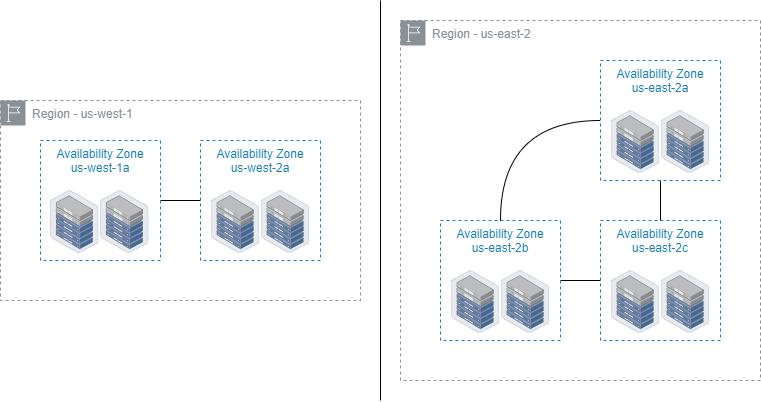
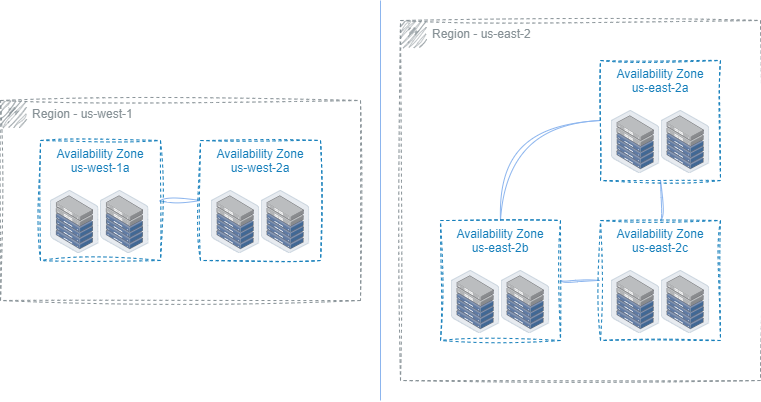
Overview updates (#46)
* Editing/formatting account page and adding initial diagram

* Saving work

* Adding custom themes

* Updating the overview section

* deleting temp diagrams

diff --git a/web/static/css/theme-dark.css b/web/static/css/theme-dark.css
@@ -1,0 +1,35 @@
+/* my-custom-variant */
+:root {
+  --PRIMARY-color: #0099ff; /* brand primary color */
+  --SECONDARY-color: #6c8ce3; /* brand secondary color */
+  --ACCENT-color: #ff44ff; /* brand accent color, used for search highlights */
+  --MAIN-LINK-HOVER-color: #93b0ff; /* hoverd link color of content */
+  --MAIN-BG-color: #202020; /* background color of content */
+  --MAIN-TEXT-color: #e0e0e0; /* text color of content and h1 titles */
+  --MAIN-TITLES-TEXT-color: #ffffff; /* text color of h2-h6 titles and transparent box titles */
+  --CODE-BLOCK-color: #f8f8f8; /* fallback text color of block code; should be adjusted to your selected chroma style */
+  --CODE-BLOCK-BG-color: #2b2b2b; /* fallback background color of block code; should be adjusted to your selected chroma style */
+  --CODE-INLINE-color: #0099ff; /* text color of inline code */
+  --CODE-INLINE-BG-color: #2d2d2d; /* background color of inline code */
+  --CODE-INLINE-BORDER-color: #464646; /* border color of inline code */
+  --BROWSER-theme: dark; /* name of the theme for browser scrollbars of the main section */
+  --MERMAID-theme: dark; /* name of the default Mermaid theme for this variant, can be overridden in config.toml */
+  --OPENAPI-theme: dark; /* name of the default OpenAPI theme for this variant, can be overridden in config.toml */
+  --OPENAPI-CODE-theme: obsidian; /* name of the default OpenAPI coee theme for this variant, can be overridden in config.toml */
+  --MENU-HEADER-BG-color: #0099ff; /* background color of menu header */
+  --MENU-HOME-LINK-color: #404040; /* home button color if configured */
+  --MENU-HOME-LINK-HOVER-color: #000000; /* hoverd home button color if configured */
+  --MENU-SEARCH-color: #e0e0e0; /* text and icon color of search box */
+  --MENU-SEARCH-BG-color: #323232; /* background color of search box */
+  --MENU-SEARCH-BORDER-color: #e0e0e0; /* border color of search box */
+  --MENU-SECTIONS-BG-color: #2b2b2b; /* background of the menu; this is NOT just a color value but can be a complete CSS background definition including gradients, etc. */
+  --MENU-SECTIONS-ACTIVE-BG-color: #323232; /* background color of the active menu section */
+  --MENU-SECTIONS-LINK-color: #bababa; /* link color of menu topics */
+  --MENU-SECTIONS-LINK-HOVER-color: #ffffff; /* hoverd link color of menu topics */
+  --MENU-SECTION-ACTIVE-CATEGORY-color: #0099ff; /* text color of the displayed menu topic */
+  --MENU-SECTION-HR-color: #606060; /* separator color of menu footer */
+  --MENU-VISITED-color: #486ac9; /* icon color of visited menu topics if configured */
+  --BOX-CAPTION-color: rgba( 240, 240, 240, 1 ); /* text color of colored box titles */
+  --BOX-BG-color: rgba( 20, 20, 20, 1 ); /* background color of colored boxes */
+  --BOX-TEXT-color: #e0e0e0; /* text color of colored box content */
+}

diff --git a/web/static/css/theme-light.css b/web/static/css/theme-light.css
@@ -1,0 +1,34 @@
+/* my-custom-variant */
+:root {
+  --PRIMARY-color: #0099ff; /* brand primary color */
+  --SECONDARY-color: #6380d0; /* brand secondary color */
+  --ACCENT-color: #ff88ff; /* brand accent color, used for search highlights */
+  --MAIN-LINK-HOVER-color: #202891; /* hoverd link color of content */
+  --MAIN-BG-color: #ffffff; /* background color of content */
+  --MAIN-TEXT-color: #101010; /* text color of content and h1 titles */
+  --MAIN-TITLES-TEXT-color: #4a4a4a; /* text color of h2-h6 titles and transparent box titles */
+  --CODE-BLOCK-color: #000000; /* fallback text color of block code; should be adjusted to your selected chroma style */
+  --CODE-BLOCK-BG-color: #f8f8f8; /* fallback background color of block code; should be adjusted to your selected chroma style */
+  --CODE-BLOCK-BORDER-color: #d8d8d8; /* border color of block code */
+  --CODE-INLINE-color: #5e5e5e; /* text color of inline code */
+  --CODE-INLINE-BG-color: #fffae9; /* background color of inline code */
+  --CODE-INLINE-BORDER-color: #f8e8c8; /* border color of inline code */
+  --BROWSER-theme: light; /* name of the theme for browser scrollbars of the main section */
+  --MERMAID-theme: default; /* name of the default Mermaid theme for this variant, can be overridden in config.toml */
+  --OPENAPI-theme: light; /* name of the default OpenAPI theme for this variant, can be overridden in config.toml */
+  --OPENAPI-CODE-theme: obsidian; /* name of the default OpenAPI coee theme for this variant, can be overridden in config.toml */
+  --MENU-HOME-LINK-color: #404040; /* home button color if configured */
+  --MENU-HOME-LINK-HOVER-color: #000000; /* hoverd home button color if configured */
+  --MENU-SEARCH-color: #404040; /* text and icon color of search box */
+  --MENU-SEARCH-BG-color: rgba( 255, 255, 255, .2 ); /* background color of search box */
+  --MENU-SEARCH-BORDER-color: transparent; /* border color of search box */
+  --MENU-SECTIONS-BG-color: #f4f4f4; /* background of the menu; this is NOT just a color value but can be a complete CSS background definition including gradients, etc. */
+  --MENU-SECTIONS-ACTIVE-BG-color: rgba( 0, 0, 0, .05 ); /* background color of the active menu section */
+  --MENU-SECTIONS-LINK-color: #323232; /* link color of menu topics */
+  --MENU-SECTIONS-LINK-HOVER-color: #6380d0; /* hoverd link color of menu topics */
+  --MENU-SECTION-ACTIVE-CATEGORY-color: #323232; /* text color of the displayed menu topic */
+  --MENU-SECTION-HR-color: #606060; /* separator color of menu footer */
+  --BOX-CAPTION-color: rgba( 255, 255, 255, 1 ); /* text color of colored box titles */
+  --BOX-BG-color: rgba( 255, 255, 255, .833 ); /* background color of colored boxes */
+  --BOX-TEXT-color: rgba( 16, 16, 16, 1 ); /* text color of colored box content */
+}

diff --git a/web/content/aws/overview/account.md b/web/content/aws/overview/account.md
@@ -4,23 +4,43 @@ draft: false
 weight: 1
 ---
 
-An _AWS Account_ functions as a container for organizing and isolating cloud resources. For example, deployment environments, such as development, staging, and production, often utilize distinct AWS accounts. In addition, accounts act as a security boundary, as only users 
-with valid account credentials can access those particular cloud resources. [^1]
+After initially signing up for AWS, a default _root account_ is created. AWS _accounts_ function as containers for organizing and isolating cloud resources. For example, deployment environments, such as development, staging, and production, often utilize distinct AWS accounts. In addition, accounts act as a security boundary, ensuring only authorized users can access particular cloud resources. [^1]
+
+![Regions and Availability Zones](/images/aws/aws_accounts.png)
 
 An AWS account has the following unique identifiers[^2]:
 - _AWS Account Id_: 12 digit unique ID (i.e. _123456789012_)
 - _Canonical User Id_: Obfuscated form of the account ID (i.e. _79a59df900b949e55d96a1e698fbacedfd6e09d98eacf8f8d5218e7cd47ef2be_), used to identify an account when granting cross-account access to cloud resources.
 
 The active account ID can be fetched from the Security Token Service (STS) with the following CLI command:
+{{< tabs groupId="CLI" >}}
+{{% tab name="CLI" %}}
+**Command**
 ```sh
 aws sts get-caller-identity --query Account --output text
 ```
-The command `aws sts get-caller-identity` fetches the active user information leveraged by the CLI, which includes the user ID, the account ID, and the user access resource number (ARN). The `--query` flag allows to filter only the account ID field [^3]. `--output` specifies the desired format (yaml, josn, text, etc.) [^4] 
+**Output**
+```
+123456789012
+```
+{{% /tab %}}
+{{< /tabs >}}
+
+The command `aws sts get-caller-identity` fetches the active user information leveraged by the CLI, which includes the user ID, the account ID, and the user access resource number (ARN). The `--query` flag enables users to target a particular field to output in the response and `--output` specifies the desired format (yaml, josn, text, etc.) [^3] [^4] 
 
 The simplest way to fetch the canonical ID is via the Simple Storage Service (S3) API CLI command.
+{{< tabs groupId="CLI" >}}
+{{% tab name="CLI" %}}
+**Command**
 ```sh
 aws s3api list-buckets --query Owner.ID --output text
 ```
+**Output**
+```
[1 lines of base64/hex data omitted]
+```
+{{% /tab %}}
+{{< /tabs >}}
 
 [^1]: https://docs.aws.amazon.com/accounts/latest/reference/accounts-welcome.html
 [^2]: https://docs.aws.amazon.com/general/latest/gr/acct-identifiers.html

diff --git a/web/content/aws/overview/regions.md b/web/content/aws/overview/regions.md
@@ -8,7 +8,9 @@ weight: 2
 
 An _AWS region_ is a geographic region that contains interconnected AWS data centers used for provisioning cloud resources. You can get a list of available regions for your AWS account by running the following commnad:
 
-**CLI**
+{{< tabs groupId="CLI" >}}
+{{% tab name="CLI" %}}
+**Command**
 ```sh
 aws ec2 describe-regions --all-regions --query  Regions[*].RegionName
 ```
@@ -21,19 +23,22 @@ aws ec2 describe-regions --all-regions --query  Regions[*].RegionName
     ...
 ]
 ```
+{{% /tab %}}
+{{< /tabs >}}
 
 Each region is isolated from one another for additional fault tolerance and stability.[^1] Cloud service offerings
 may also differ between AWS regions.
 
 ### Availability Zones
 
-An _availabiilty zone_ (abreviated as _AZ_) is one or more discrete AWS data centers that have redundant connectivity, networking, and power within a given AWS region. AZs within a given region are interconnected through low-latency networking and resource/data replciation.[^2]. Applicaitons designed across multiple AZs have increased fault tolerance.[^2]
+An _availabiilty zone_ (abreviated as _AZ_) is one or more discrete AWS data centers that have redundant connectivity, networking, and power within a given AWS region. AZs within a given region are interconnected through low-latency networking and resource/data replciation.[^2]. Cloud applications deployed across multiple AZs have increased fault tolerance.[^2]
 
 ![Regions and Availability Zones](/images/aws/regions.png)
 
-AZs are named with the following format "_\<region-name\>\<letter[a-z]\>_". This can be validated by enumerating th AZ options within a given region:.
-
-**CLI**
+AZ names are of the following format "_\<region-name\>\<letter[a-z]\>_". For example:.
+{{< tabs groupId="CLI" >}}
+{{% tab name="CLI" %}}
+**Command**
 ```sh
 aws ec2 describe-availability-zones --query AvailabilityZones[*].ZoneName --region us-east-2
 ```
@@ -45,6 +50,8 @@ aws ec2 describe-availability-zones --query AvailabilityZones[*].ZoneName --regi
     "us-east-2c"
 ]
 ```
+{{% /tab %}}
+{{< /tabs >}}
 
 [^1]: https://aws.amazon.com/about-aws/global-infrastructure/regions_az/
 [^2]: https://docs.aws.amazon.com/AWSEC2/latest/UserGuide/using-regions-availability-zones.html

diff --git a/web/content/aws/overview/resources.md b/web/content/aws/overview/resources.md
@@ -27,7 +27,9 @@ Certain resources may omit either or both the region, account-id from the ARN.
 
 For instance, the following fetches the ARN of the active AWS user associated with the local developers AWS credentials.
 
-**CLI**
+{{< tabs groupId="CLI" >}}
+{{% tab name="CLI" %}}
+**Command**
 ```sh
 aws sts get-caller-identity --query Arn --output text --region us-east1
 ```
@@ -35,6 +37,8 @@ aws sts get-caller-identity --query Arn --output text --region us-east1
 ```
 arn:aws:iam::[account-number]:user/[username]
 ```
+{{% /tab %}}
+{{< /tabs >}}
 
 For the above output, `iam` refers to the AWS Identity Access Management service. This is followed by the account number which owns 
 the user entity and the IAM resource is of type `user`.
@@ -45,10 +49,12 @@ can be used to distinguish and group resources.
 
 For instance, to add a tag to your active user.
 
-**CLI**
+{{< tabs groupId="CLI" >}}
+{{% tab name="CLI" %}}
+**Command**
 ```sh
 export USERNAME=$(aws iam get-user --query  User.UserName)
-aws iam tag-user --user-name $USERNAME --tags '{"Key": "Tagged", "Value": "True"}'
+aws iam tag-user --user-name $USERNAME --tags '{"Tag": "Your it!"}'
 aws iam list-user-tags --user-name $USERNAME
 ```
 **Output**
@@ -56,11 +62,12 @@ aws iam list-user-tags --user-name $USERNAME
 {
     "Tags": [
         {
-            "Key": "Tagged",
-            "Value": "True"
+            "Tag": "Your it!"
         }
     ]
 }
 ```
+{{% /tab %}}
+{{< /tabs >}}
 
 [^1]: https://docs.aws.amazon.com/general/latest/gr/aws-arns-and-namespaces.html

diff --git a/web/content/_index.md b/web/content/_index.md
@@ -5,13 +5,13 @@ weight: 1
 
 # Howdy!
 
-Welcome to Tech Squawks, a website for learning cloud computing technologies and concepts, using popular programming languages such as Typescript, Javascript, Python, or Go. This site is a work in progress, so check back frequently for new tutorials and updates!
+Welcome to Tech Squawks, a website for learning cloud computing technologies and concepts, using popular programming languages such as Typescript, Javascript, Python, or Go. This website is a work in progress, so check back frequently for new tutorials and updates!
 
 ### Hands-On Learning
 
-Cloud computing documentation often provides lengthy descriptions of cloud concepts, functionality, or architecture without providing concrete examples. The goal of this website is to offer a more hands-on approach to learning cloud development beyond the first-party documentation by providing code examples which clearly demonstrate key concepts and design patterns.
+Cloud computing documentation often provides lengthy descriptions of cloud services or architecture without providing concrete examples. The goal of this website is to offer a more hands-on approach to learning these concepts by providing concrete code examples.
 
-For instance, the below examples demonstrate a small serverless AWS app in multiple languages:
+For instance, the below examples illustrate deploying a serverless AWS app in multiple languages:
 
 {{< tabs groupId="code" >}}
 {{% tab name="Typescript" %}}

diff --git a/web/content/aws/overview/_index.md b/web/content/aws/overview/_index.md
@@ -8,4 +8,4 @@ weight = 2
 
 # Overview
 
-Introduction to common AWS terms and concepts.
+This section will cover general AWS terms and concepts, in addition to a brief overview of AWS cloud service categories and offerings.
